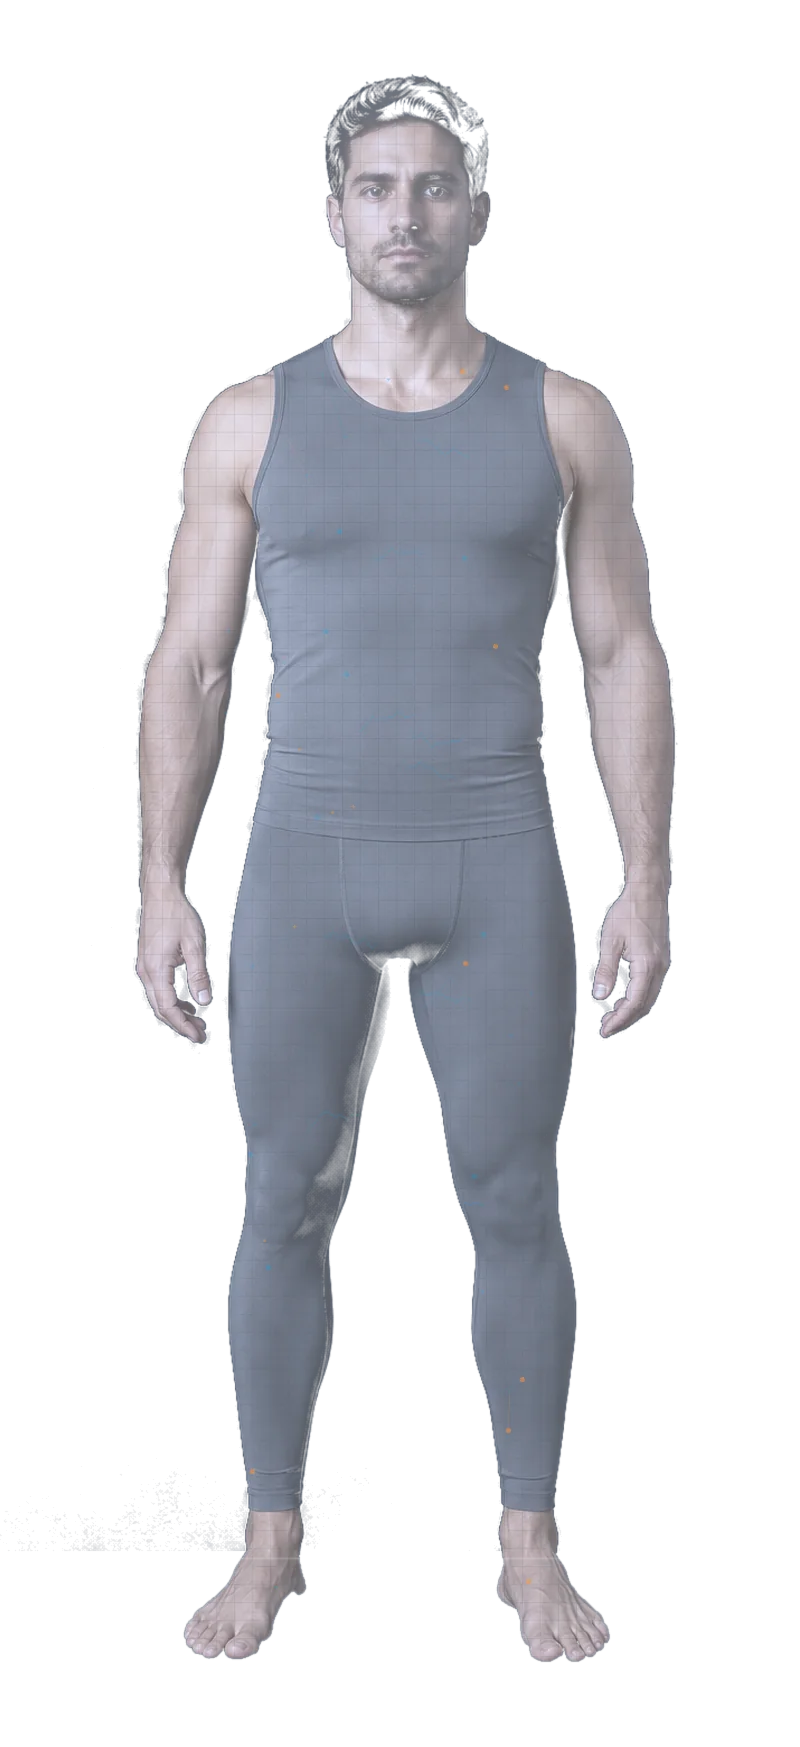
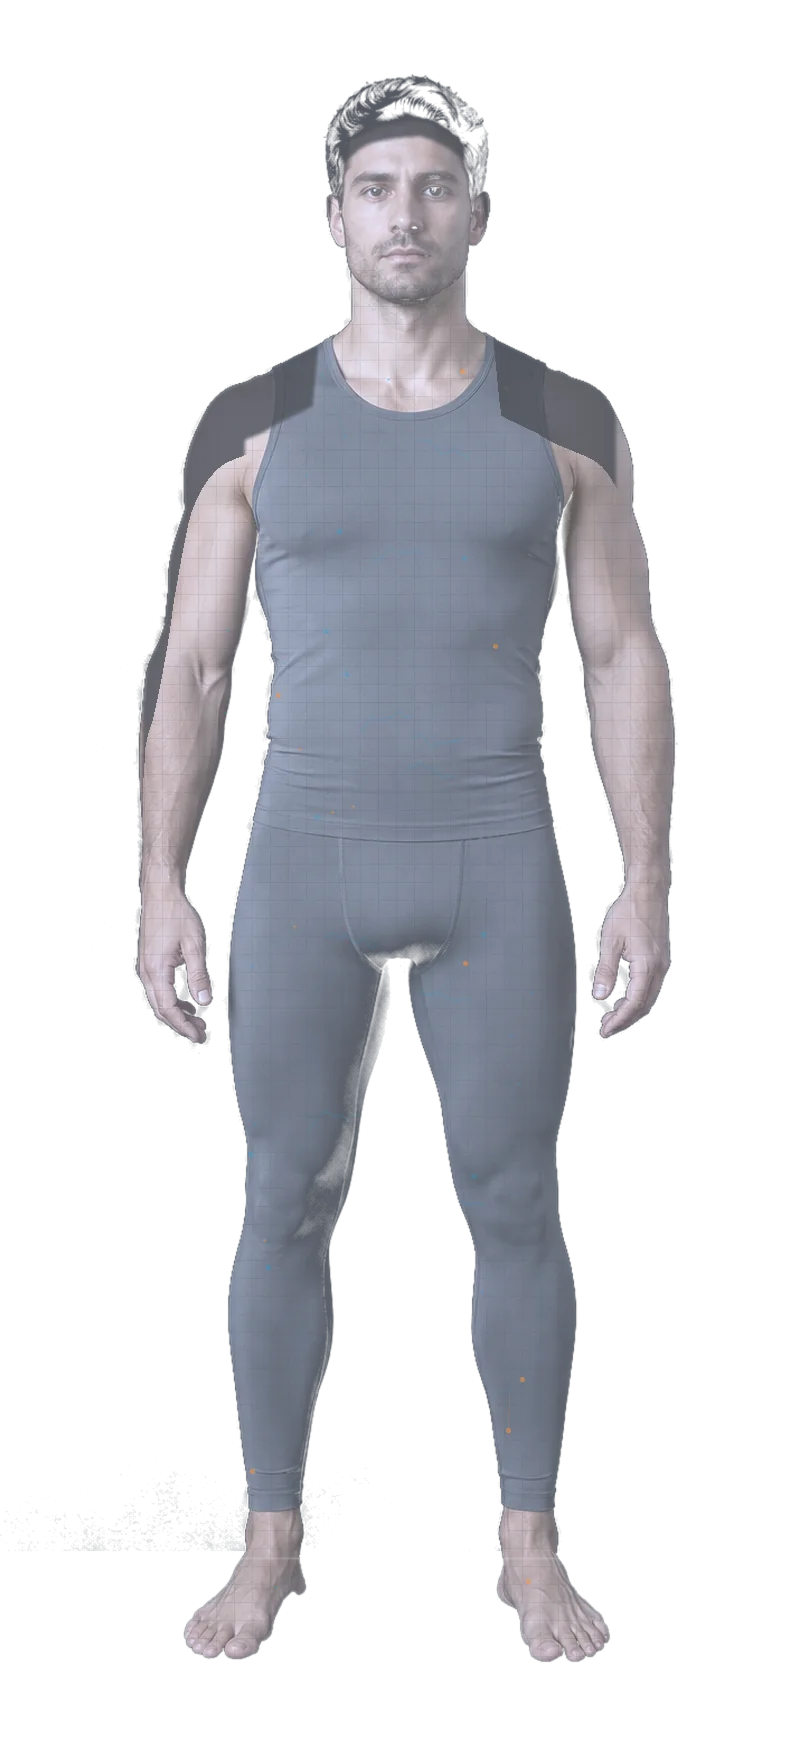
Clear HDM pelvic hotspots and recover male hair blowout.
Move the 5-svc digital-therapeutics cube off the crotch to mid-chest, pull remaining lower anchors to outer thighs, and regenerate male WebPs with crown-only highlight recovery plus cache bust.

Changed region(s): [[0.1562, 0.1855, 0.4062, 0.4327], [0.5938, 0.1855, 0.7812, 0.2782], [0.4062, 0.0309, 0.5938, 0.0927]]

diff --git a/src/components/home/humanDataModel/bodyCubes.ts b/src/components/home/humanDataModel/bodyCubes.ts
@@ -1,4 +1,6 @@
-/** Hotspot grid aligned to the photorealistic WebP figure (head → feet). */
+/** Hotspot grid aligned to the photorealistic WebP figure (head → feet).
+ *  Pelvic dead-center (≈L40–52 / T52–68) has no cells — keep it clear of svc circles.
+ */
 export const COLS = 5;
 export const ROWS = 11;
 export const RADIUS = 18;
@@ -40,22 +42,19 @@ export const BODY_CUBES: BodyCube[] = [
   { c: 2, r: 5, left: 42.8, top: 44.0, sizeW: 14.5, sizeH: 6.5 },
   { c: 3, r: 5, left: 52.8, top: 44.0, sizeW: 14.5, sizeH: 6.5 },
   { c: 4, r: 5, left: 66.5, top: 44.0, sizeW: 14.5, sizeH: 6.5 },
-  // Waist / pelvis
-  { c: 1, r: 6, left: 33.0, top: 51.5, sizeW: 14.5, sizeH: 6.5 },
-  { c: 2, r: 6, left: 42.8, top: 51.5, sizeW: 14.5, sizeH: 6.5 },
-  { c: 3, r: 6, left: 52.5, top: 51.5, sizeW: 14.5, sizeH: 6.5 },
-  // Upper thighs / outer hips (r7 sides = mens/womens health; r7 center unused by primaries)
-  { c: 1, r: 7, left: 31.0, top: 59.5, sizeW: 14.5, sizeH: 6.5 },
-  { c: 2, r: 7, left: 42.8, top: 59.5, sizeW: 14.5, sizeH: 6.5 },
-  { c: 3, r: 7, left: 54.5, top: 59.5, sizeW: 14.5, sizeH: 6.5 },
-  // Mid thighs — general-sexual on center; sides free of sexual primaries
-  { c: 1, r: 8, left: 30.5, top: 69.0, sizeW: 14.5, sizeH: 6.5 },
-  { c: 2, r: 8, left: 42.8, top: 69.0, sizeW: 14.5, sizeH: 6.5 },
-  { c: 3, r: 8, left: 55.0, top: 69.0, sizeW: 14.5, sizeH: 6.5 },
+  // Lower waist — sides only; pelvic dead-center cells removed from this band
+  { c: 1, r: 6, left: 28.5, top: 50.5, sizeW: 14.5, sizeH: 6.5 },
+  { c: 3, r: 6, left: 57.0, top: 50.5, sizeW: 14.5, sizeH: 6.5 },
+  // Outer hips / upper outer thighs (r7 sides = mens/womens health; no center cell)
+  { c: 1, r: 7, left: 27.5, top: 58.5, sizeW: 14.5, sizeH: 6.5 },
+  { c: 3, r: 7, left: 58.0, top: 58.5, sizeW: 14.5, sizeH: 6.5 },
+  // Mid / outer thighs — general-sexual on outer left; no crotch-center cell
+  { c: 1, r: 8, left: 27.0, top: 68.5, sizeW: 14.5, sizeH: 6.5 },
+  { c: 3, r: 8, left: 58.5, top: 68.5, sizeW: 14.5, sizeH: 6.5 },
   // Lower thighs
-  { c: 1, r: 9, left: 31.0, top: 76.5, sizeW: 14.5, sizeH: 6.5 },
-  { c: 3, r: 9, left: 54.5, top: 76.5, sizeW: 14.5, sizeH: 6.5 },
+  { c: 1, r: 9, left: 28.5, top: 76.5, sizeW: 14.5, sizeH: 6.5 },
+  { c: 3, r: 9, left: 57.0, top: 76.5, sizeW: 14.5, sizeH: 6.5 },
   // Outer lower legs — mens/womens sexual-health (away from pelvic center)
-  { c: 1, r: 10, left: 30.0, top: 83.5, sizeW: 14.5, sizeH: 6.5 },
-  { c: 3, r: 10, left: 55.5, top: 83.5, sizeW: 14.5, sizeH: 6.5 },
+  { c: 1, r: 10, left: 28.0, top: 84.0, sizeW: 14.5, sizeH: 6.5 },
+  { c: 3, r: 10, left: 57.5, top: 84.0, sizeW: 14.5, sizeH: 6.5 },
 ];

diff --git a/src/components/home/humanDataModel/HumanSilhouette.tsx b/src/components/home/humanDataModel/HumanSilhouette.tsx
@@ -29,8 +29,10 @@ interface Props {
   onSelectCategory: (id: string) => void;
 }
 
-/** Bump only when locked public/hdm-human-*.webp assets intentionally change. */
-const FIGURE_CACHE = 'v=19';
+/** Bump when locked public/hdm-human-*.webp assets intentionally change. */
+const FIGURE_CACHE = 'v=20';
+/** Bump when body cube / CATEGORY_AT hotspot layout changes (visible in DOM). */
+export const CUBE_LAYOUT = 'cl=4';
 
 function hexToRgba(hex: string, alpha: number): string {
   const h = hex.replace('#', '');
@@ -397,7 +399,12 @@ export default function HumanSilhouette({ dark, onSelectCategory }: Props) {
           aria-hidden
         />
 
-        <div className="absolute inset-0 z-20" style={{ perspective: 900 }}>
+        <div
+          className="absolute inset-0 z-20"
+          style={{ perspective: 900 }}
+          data-cube-layout={CUBE_LAYOUT}
+          data-figure-cache={FIGURE_CACHE}
+        >
           {cubes.map((cube) => {
             const hoverKey = cube.categoryId;
             const isHot = hovered === hoverKey;

diff --git a/src/components/home/humanDataModel/geometry.ts b/src/components/home/humanDataModel/geometry.ts
@@ -173,11 +173,12 @@ export const CATEGORY_AT: Record<string, { c: number; r: number }> = {
   'fitness-performance': { c: 4, r: 4 },
   'senior-care': { c: 1, r: 5 },
   'nutrition-diet': { c: 2, r: 5 },
-  'digital-therapeutics': { c: 2, r: 6 },
+  // Mid-chest gap (was pelvis c2r6 — never put numbered hotspots on crotch).
+  'digital-therapeutics': { c: 2, r: 3 },
   'womens-health': { c: 1, r: 7 },
   'mens-health': { c: 3, r: 7 },
   // Sexual categories sit on mid-thigh / outer lower leg — not pelvic center.
-  'general-sexual': { c: 2, r: 8 },
+  'general-sexual': { c: 1, r: 8 },
   'mens-sexual-health': { c: 1, r: 10 },
   'womens-sexual-health': { c: 3, r: 10 },
 };

diff --git a/scripts/generate-hdm-human.py b/scripts/generate-hdm-human.py
@@ -216,50 +216,89 @@ def clean_feet_alpha(img: Image.Image) -> Image.Image:
     return Image.merge("RGBA", (r, g, b, a))
 
 
-def soften_crown_hair(img: Image.Image) -> Image.Image:
-    """Lift crushed hair blacks / compress harsh highlights near the crown."""
-    w, h = img.size
-    r, g, b, a = img.split()
-    rgb = Image.merge("RGB", (r, g, b))
-    # Soft blurred plate — reduces crunchy specular grain in short hair.
-    soft = rgb.filter(ImageFilter.GaussianBlur(2.2))
-    soft = ImageEnhance.Contrast(soft).enhance(0.72)
-    soft = ImageEnhance.Brightness(soft).enhance(1.14)
-    # Cool slate wash matching clinical body grade.
-    wash = Image.new("RGB", (w, h), (58, 70, 88))
-    soft = Image.blend(soft, wash, 0.22)
+def soften_crown_hair(img: Image.Image, *, dark: bool) -> Image.Image:
+    """Crush short-hair specular just under the silhouette top — never the forehead."""
+    # Local import keeps the rest of the module Pillow-only at import time.
+    import numpy as np
 
-    alpha = a.point(lambda v: 255 if v >= 40 else 0)
-    bbox = alpha.getbbox()
-    if not bbox:
+    arr = np.array(img)
+    rgb = arr[..., :3].astype(np.float32)
+    a = arr[..., 3].astype(np.float32)
+    lum = 0.2126 * rgb[..., 0] + 0.7152 * rgb[..., 1] + 0.0722 * rgb[..., 2]
+    h, w = a.shape
+    opaque = a >= 40
+    if not opaque.any():
         return img
-    x0, y0, x1, y1 = bbox
-    fh = max(1, y1 - y0)
-    fw = max(1, x1 - x0)
-    # Crown region: top ~14% of figure height, centered.
-    y_end = y0 + max(14, int(fh * 0.14))
-    cx = (x0 + x1) * 0.5
-    rx = fw * 0.32
-    mask = Image.new("L", (w, h), 0)
-    md = ImageDraw.Draw(mask)
-    md.ellipse(
-        [int(cx - rx), y0 - int(fh * 0.02), int(cx + rx), y_end],
-        fill=255,
-    )
-    mask = mask.filter(ImageFilter.GaussianBlur(10))
-    # Don't over-soften bright facial skin inside the ellipse.
-    lum = rgb.convert("L")
-    face_protect = lum.point(lambda v: 0 if v < 95 else min(255, int((v - 95) * 3.6)))
-    face_protect = ImageChops.multiply(face_protect, mask)
-    mask = ImageChops.subtract(mask, face_protect.point(lambda v: int(v * 0.9)))
-    mask = ImageChops.multiply(mask, a)
-    # Stronger mix on darkest hair (crushed blacks), lighter on midtones.
-    dark_boost = lum.point(lambda v: 255 if v < 70 else max(0, 255 - int((v - 70) * 2.2)))
-    mask = ImageChops.lighter(mask, ImageChops.multiply(mask, dark_boost).point(lambda v: int(v * 0.55)))
-    mask = ImageChops.multiply(mask, a)
 
-    blended = Image.composite(soft, rgb, mask)
-    return Image.merge("RGBA", (*blended.split(), a))
+    top_y = np.full(w, h, dtype=np.int32)
+    for x in range(w):
+        col = np.where(opaque[:, x])[0]
+        if len(col):
+            top_y[x] = int(col[0])
+    k = 21
+    pad = np.pad(top_y.astype(np.float32), (k // 2, k // 2), mode="edge")
+    top_s = np.convolve(pad, np.ones(k) / k, mode="valid")
+
+    ys = np.where(opaque)[0]
+    y0, y1 = int(ys.min()), int(ys.max())
+    fh = max(1, y1 - y0)
+    xs = np.where(opaque)[1]
+    x0, x1 = int(xs.min()), int(xs.max())
+    cx = (x0 + x1) * 0.5
+    fw = max(1, x1 - x0)
+
+    yy = np.arange(h, dtype=np.float32)[:, None]
+    xx = np.arange(w, dtype=np.float32)[None, :]
+    dist = yy - top_s[None, :]
+    # Tight band from silhouette crown only (avoids forehead).
+    depth = fh * (0.042 if dark else 0.038)
+    hair = opaque & (dist >= -1.5) & (dist <= depth) & (np.abs(xx - cx) <= fw * 0.36)
+    temple = (
+        opaque
+        & (np.abs(xx - cx) > fw * 0.20)
+        & (np.abs(xx - cx) <= fw * 0.40)
+        & (dist >= -1.5)
+        & (dist <= fh * 0.075)
+    )
+    hair = hair | temple
+
+    # Light mode: short hair reads silvery on pale UI — darken the whole crown band.
+    # Dark mode: only crush hot specular speckles.
+    thr = 108.0 if dark else 70.0
+    hot = hair & (lum >= thr)
+    if not hot.any():
+        return img
+
+    dark_ref = hair & (lum < (80 if dark else 95))
+    if dark_ref.sum() > 40:
+        ref = np.median(rgb[dark_ref], axis=0).astype(np.float32)
+    else:
+        ref = np.array([50.0, 42.0, 36.0] if dark else [58.0, 48.0, 40.0], dtype=np.float32)
+
+    m = np.zeros((h, w), dtype=np.float32)
+    if dark:
+        m[hot] = np.clip((lum[hot] - thr) / 55.0, 0.45, 0.92)
+    else:
+        # Even midtone crown hair gets pulled toward brown on light plates.
+        m[hot] = np.clip(0.35 + (lum[hot] - thr) / 90.0, 0.35, 0.88)
+    m_img = Image.fromarray((np.clip(m, 0, 1) * 255).astype(np.uint8)).filter(
+        ImageFilter.GaussianBlur(1.6)
+    )
+    m = np.array(m_img).astype(np.float32) / 255.0
+    # Hard stop: no spill onto forehead / face.
+    m[dist > depth * 1.25] = 0
+    m[dist > fh * 0.09] = 0
+    m[~opaque] = 0
+
+    blur = np.array(
+        Image.fromarray(np.clip(lum, 0, 255).astype(np.uint8)).filter(ImageFilter.GaussianBlur(1.5))
+    ).astype(np.float32)
+    tex = (lum - blur) * 0.18
+    mul = 0.86 + np.clip(blur, 0, 160) / 160.0 * 0.30
+    target = np.clip(ref[None, None, :] * mul[..., None] + tex[..., None], 0, 255)
+    out = rgb * (1.0 - m[..., None]) + target * m[..., None]
+    arr[..., :3] = np.clip(out, 0, 255).astype(np.uint8)
+    return Image.fromarray(arr, "RGBA")
 
 
 def make_overlay(size: tuple[int, int], dark: bool, rng: random.Random) -> Image.Image:
@@ -301,13 +340,32 @@ def make_overlay(size: tuple[int, int], dark: bool, rng: random.Random) -> Image
     return ov
 
 
-def thin_edge(alpha: Image.Image, dark: bool) -> Image.Image:
+def thin_edge(alpha: Image.Image, dark: bool, *, male: bool = False) -> Image.Image:
     solid = alpha.point(lambda v: 255 if v > 40 else 0)
     dil = solid.filter(ImageFilter.MaxFilter(3))
     ero = solid.filter(ImageFilter.MinFilter(3))
     edge = ImageChops.subtract(dil, ero).filter(ImageFilter.GaussianBlur(0.6))
     color = (186, 198, 214) if dark else (51, 65, 85)
-    e = edge.point(lambda v: int(v * (0.55 if dark else 0.45)))
+    strength = 0.55 if dark else 0.45
+    if male:
+        # Male short-hair fringe reads as blown white if the rim is too bright.
+        strength *= 0.55 if dark else 0.7
+        color = (120, 132, 148) if dark else (55, 60, 70)
+    e = edge.point(lambda v: int(v * strength))
+    # Further fade the crown rim for male.
+    if male:
+        bbox = solid.getbbox()
+        if bbox:
+            x0, y0, x1, y1 = bbox
+            fh = max(1, y1 - y0)
+            fade = Image.new("L", alpha.size, 255)
+            fd = ImageDraw.Draw(fade)
+            fd.ellipse(
+                [x0 - 20, y0 - 20, x1 + 20, y0 + int(fh * 0.14)],
+                fill=90,
+            )
+            fade = fade.filter(ImageFilter.GaussianBlur(18))
+            e = ImageChops.multiply(e, fade)
     layer = Image.new("RGBA", alpha.size, (*color, 0))
     layer.putalpha(e)
     return layer
@@ -327,16 +385,31 @@ def compose(cut_path: Path, dark: bool, seed: int, *, male: bool = False) -> Ima
     a = a.point(lambda v: 0 if v < (18 if male else 12) else v).filter(ImageFilter.GaussianBlur(0.4))
     base = Image.merge("RGBA", (r, g, b, a))
     graded = clinical_grade(base, dark=dark)
-    if male:
-        graded = soften_crown_hair(graded)
     wash = Image.new("RGBA", graded.size, (15, 23, 42, 0) if dark else (241, 245, 249, 0))
     wash.putalpha(a.point(lambda v: int(v * (0.28 if dark else 0.12))))
     graded = Image.alpha_composite(graded, wash)
     ov = make_overlay(graded.size, dark=dark, rng=rng)
     ov_r, ov_g, ov_b, ov_a = ov.split()
     ov_a = ImageChops.multiply(ov_a, a.point(lambda v: int(v * 0.85)))
+    if male:
+        # Soften math overlay on the crown so short hair isn't read as blown white.
+        bbox = a.point(lambda v: 255 if v >= 40 else 0).getbbox()
+        if bbox:
+            x0, y0, x1, y1 = bbox
+            fh = max(1, y1 - y0)
+            crown_fade = Image.new("L", graded.size, 255)
+            cd = ImageDraw.Draw(crown_fade)
+            cd.ellipse(
+                [x0 - 30, y0 - 24, x1 + 30, y0 + int(fh * 0.12)],
+                fill=55,
+            )
+            crown_fade = crown_fade.filter(ImageFilter.GaussianBlur(16))
+            ov_a = ImageChops.multiply(ov_a, crown_fade)
     graded = Image.alpha_composite(graded, Image.merge("RGBA", (ov_r, ov_g, ov_b, ov_a)))
-    graded = Image.alpha_composite(graded, thin_edge(a, dark=dark))
+    graded = Image.alpha_composite(graded, thin_edge(a, dark=dark, male=male))
+    # Hair recovery last so wash/overlay/edge cannot re-blow the crown.
+    if male:
+        graded = soften_crown_hair(graded, dark=dark)
     fr, fg, fb, _ = graded.split()
     return Image.merge("RGBA", (fr, fg, fb, a))
 
